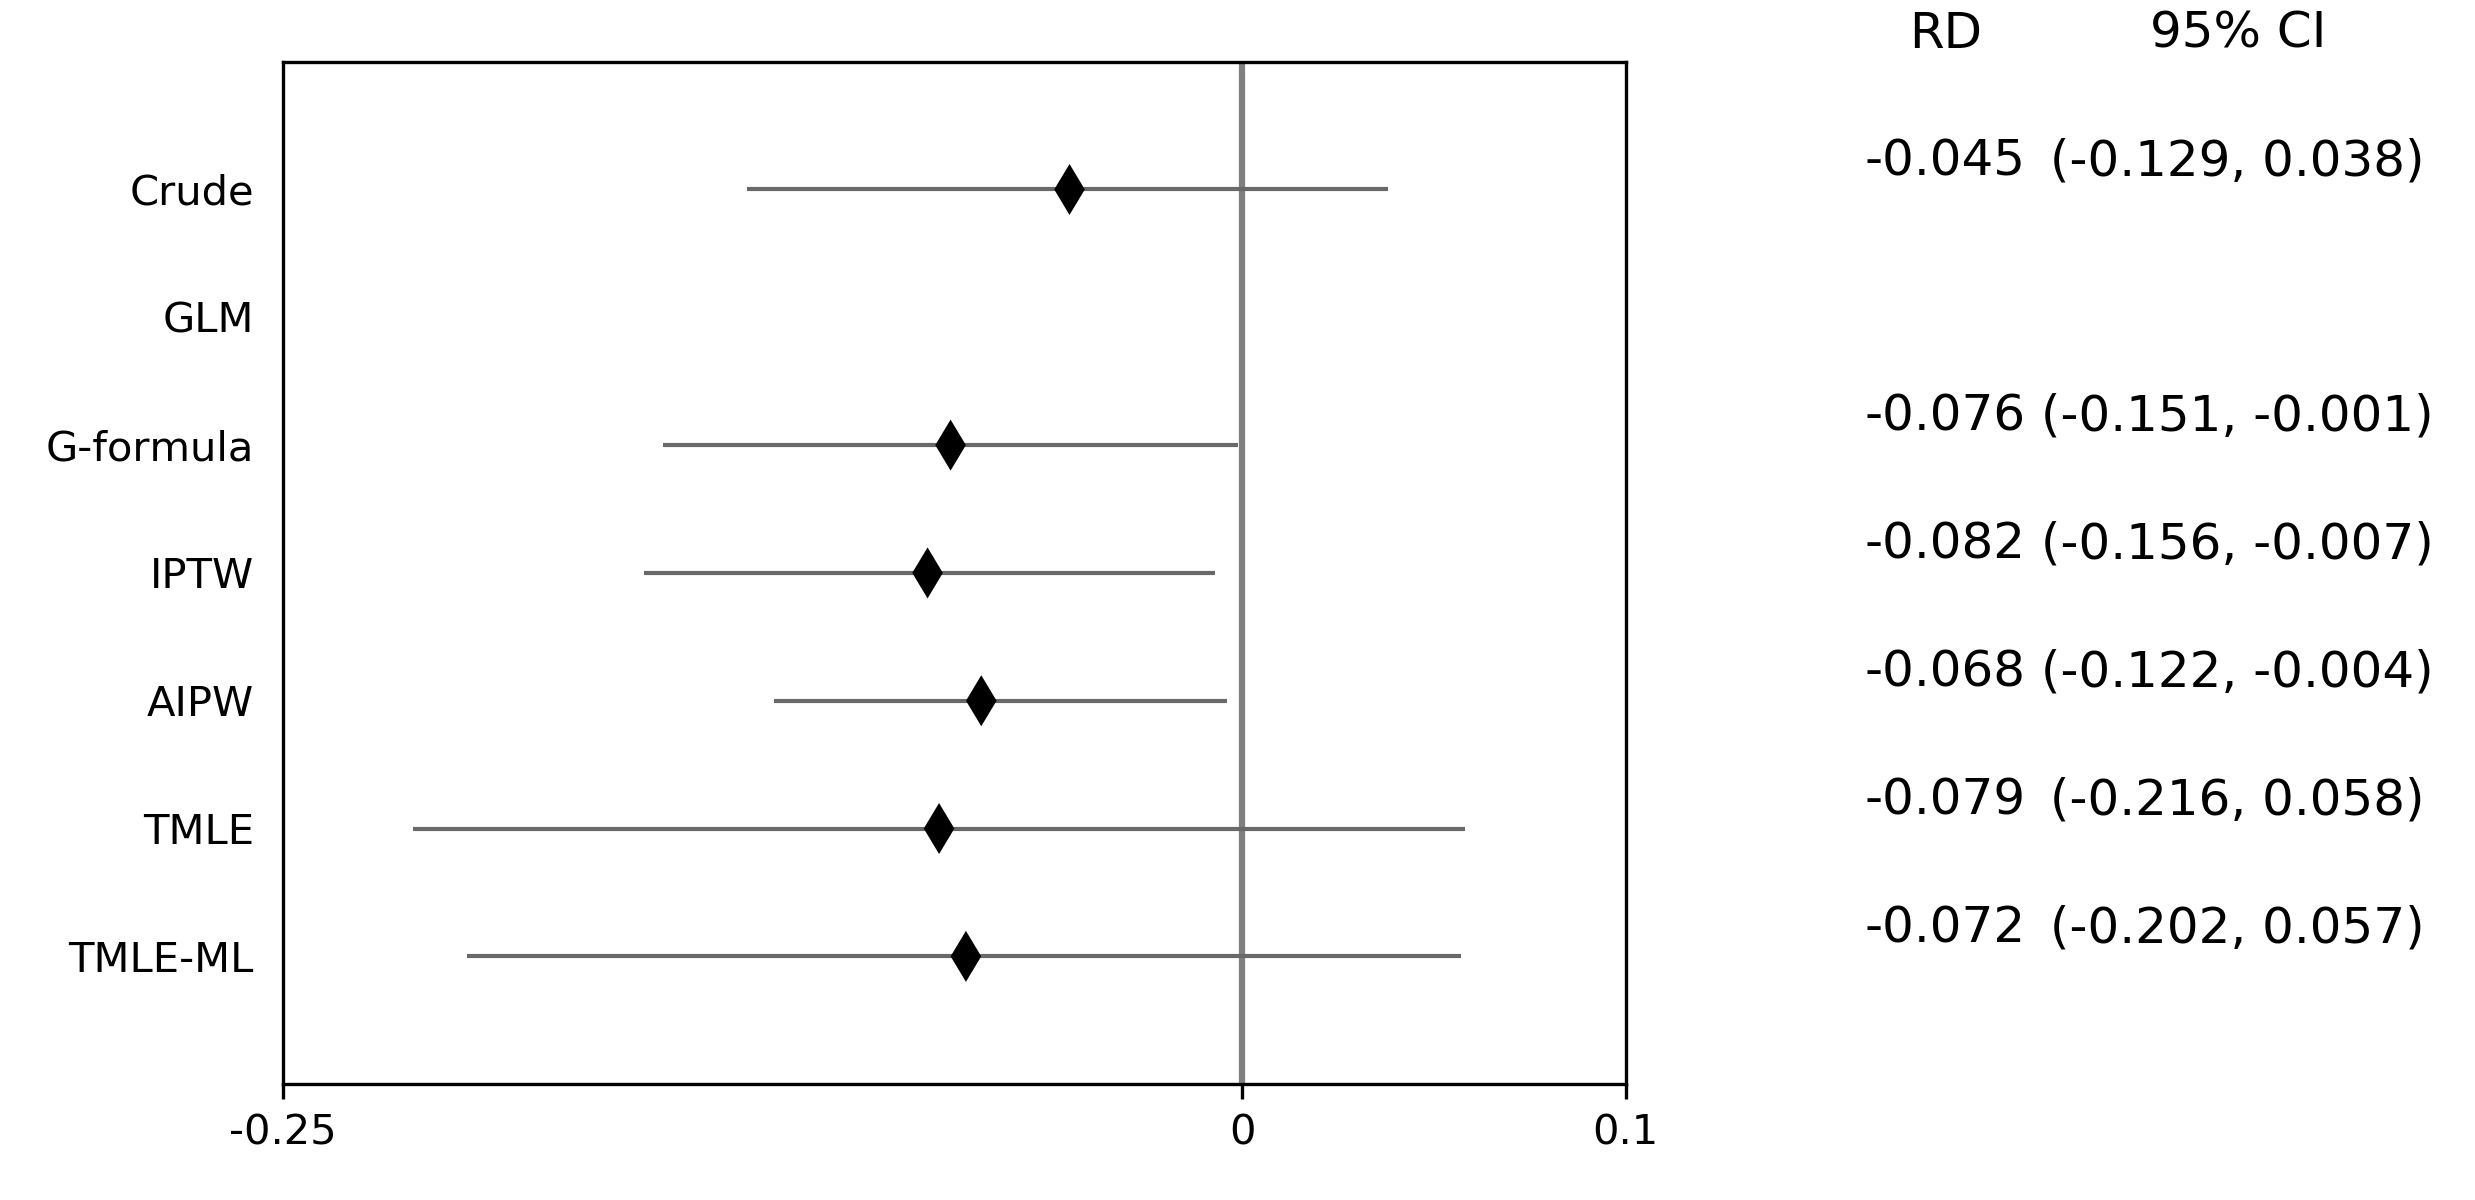
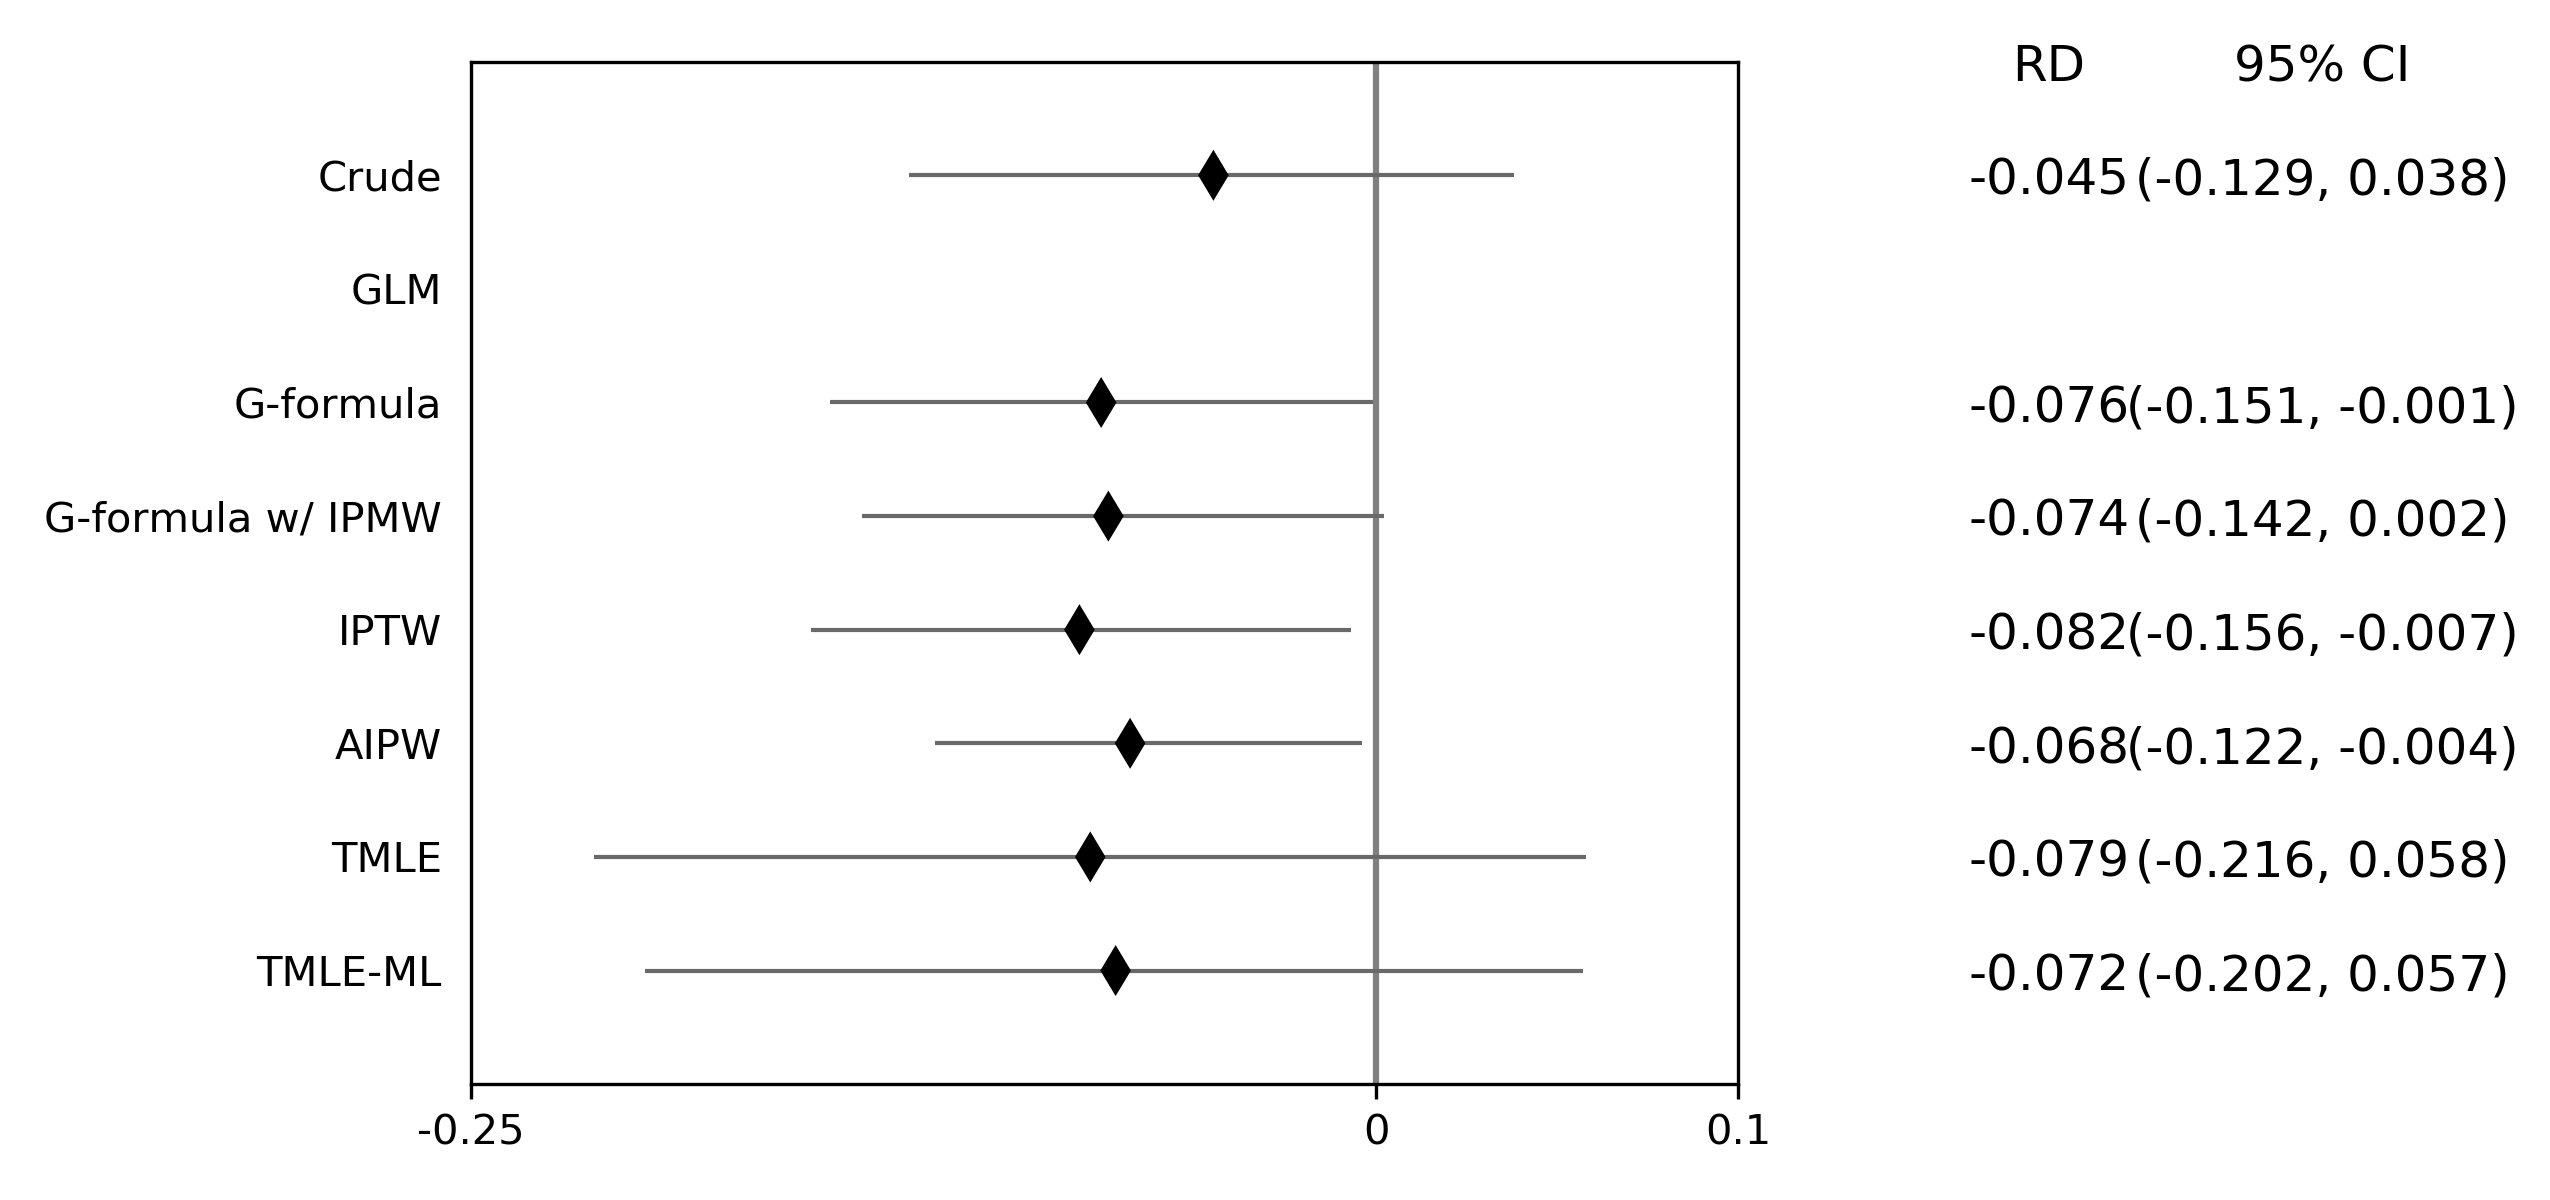
Update to website describing TimeFixedGFormula with weights and added into comparison plot

diff --git a/docs/Causal.rst b/docs/Causal.rst
@@ -206,6 +206,44 @@ intervals. This example generates confidence intervals for ART exposure on death
 to run, if not longer. Remember that it is fitting 500 logistic regression models to 500 bootstrapped sample to
 generate the confidence intervals.
 
+Weighted Data
+~~~~~~~~~~~~~~~~~~~~~~~~~~~~~~~~~~~~~
+Lastly, the ``TimeFixedGFormula`` can be estimated using weighted data. For the following example, we will calculate
+inverse probability of missingness weights (IPMW) for the sample data (see below for ``zepid.causal.ipw.IPMW``). While
+the functionality is demonstrated with IPMW, any type of weights are possible. For example, sampling weights are another
+potential option. First, we set up the data
+
+.. code:: python
+
+  df = ze.load_sample_data(timevary=False)
+  df[['cd4_rs1', 'cd4_rs2']] = ze.spline(df, 'cd40', n_knots=3, term=2, restricted=True)
+  df[['age_rs1', 'age_rs2']] = ze.spline(df, 'age0', n_knots=3, term=2, restricted=True)
+
+Then estimate IPMW using ``zepid.causal.ipw.IPMW``
+
+.. code:: python
+
+  from zepid.causal.ipw import IPMW
+  ipm = IPMW(df, 'dead')
+  ipm.fit(model='art + male + age0 + age_rs1 + age_rs2 + cd40 + cd4_rs1 + cd4_rs2 + dvl0')
+  df['mweight'] = ipm.Weight
+
+To fit ``TimeFixedGFormula`` with weighted data, the optional argument ``weights`` is specified. This optional argument
+is set to the column label for the weights, like the following:
+
+.. code:: python
+
+  g = TimeFixedGFormula(df, exposure='art', outcome='dead', weights='mweight')
+  g.outcome_model(model='art + male + age0 + age_rs1 + age_rs2 + cd40 + cd4_rs1 + cd4_rs2 + dvl0')
+  g.fit(treatment='all')
+  r1 = g.marginal_outcome
+  g.fit(treatment='none')
+  r0 = g.marginal_outcome
+
+Inclusion of IPMW in the model (and accounting for missing data on the outcome) results in a slightly attenuated
+estimate (-0.076 vs. -0.074), but is fairly consistent. Confidence intervals are generated using a similar procedure to
+above, but within each bootstrapped sample the IPMW is estimated on the sampled data.
+
 Inverse Probability of Treatment Weights
 --------------------------------------------
 Inverse Probability of Treatment Weights (IPTW) are used to adjust for confounder imbalances between exposed and
@@ -533,13 +571,13 @@ these results using ``zepid.graphics.EffectMeasurePlot`` for both Risk Differenc
 
 .. code:: python
 
-  labs = ['Crude','GLM','G-formula','IPTW','AIPW', 'TMLE', 'TMLE-ML']
-  measure = [-0.045, np.nan, -0.076, -0.082, -0.068, -0.079, -0.072]
-  lower = [-0.129, np.nan, -0.151, -0.156, -0.122, -0.216, -0.202]
-  upper = [0.038, np.nan, -0.001, -0.007, -0.004, 0.058, 0.057]
-  p = ze.graphics.EffectMeasurePlot(label=labs,effect_measure=measure,lcl=lower,ucl=upper)
-  p.labels(center=0,effectmeasure='RD')
-  p.plot(figsize=(8.25,4),t_adjuster=0.09,max_value=0.1,min_value=-0.25)
+  labs = ['Crude', 'GLM', 'G-formula', 'G-formula w/ IPMW', 'IPTW', 'AIPW', 'TMLE', 'TMLE-ML']
+  measure = [-0.045, np.nan, -0.076, -0.074, -0.082, -0.068, -0.079, -0.072]
+  lower = [-0.129, np.nan, -0.151, -0.142, -0.156, -0.122, -0.216, -0.202]
+  upper = [0.038, np.nan, -0.001, 0.002, -0.007, -0.004, 0.058, 0.057]
+  p = ze.graphics.EffectMeasurePlot(label=labs, effect_measure=measure, lcl=lower, ucl=upper)
+  p.labels(center=0, effectmeasure='RD')
+  p.plot(figsize=(8.5, 4),t_adjuster=0.05, max_value=0.1, min_value=-0.25)
   plt.tight_layout()
   plt.show()
 
